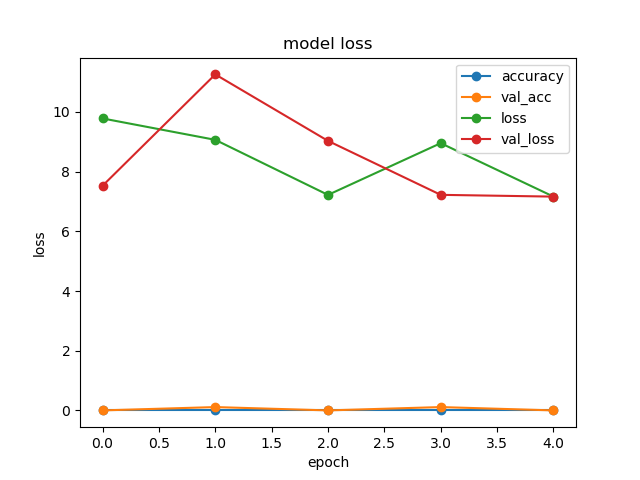
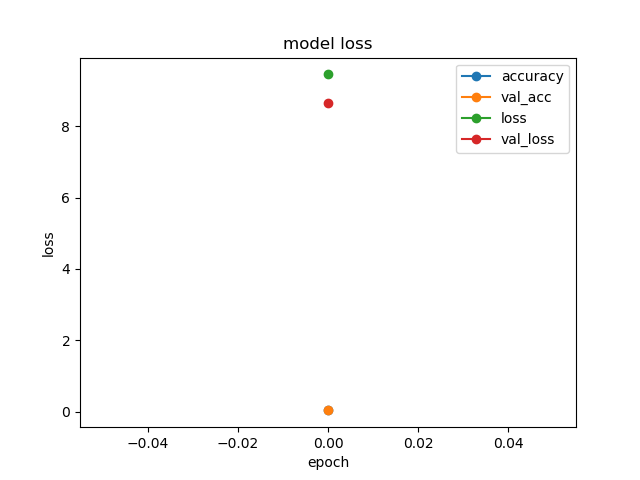
improved params of conv layer

diff --git a/lrcnModel.py b/lrcnModel.py
@@ -38,12 +38,15 @@ IMG_HEIGHT = 100
 IMG_WIDTH = 150
 NUM_FRAMES = 30
 NUM_CLASSES = 27
-NUM_TRAIN_SAMPLES = 10240 #116254
+NUM_TRAIN_SAMPLES = 32#10240 #116254
 NUM_VALIDATION_SAMPLES = 640
 
 # model params
-epochs = 5
+epochs = 1#5
 batchsize = 32
+padding_mode = 'same' # valid = no padding, same = padding such that output = input
+num_filters = 32 # depth
+kernel_size = 3 # spatial extend (width and height of output)
 
 def data_generator(featurePath, labelPath, batchsize, labelEncoder):
     metaData = pd.read_csv(labelPath, delimiter=';', header=None, index_col=0, names=['gesture'])
@@ -74,7 +77,7 @@ def data_generator(featurePath, labelPath, batchsize, labelEncoder):
 
 def build_model():
     model = Sequential()
-    model.add(TimeDistributed(Conv2D(32, (3, 3), padding='same'), input_shape=(NUM_FRAMES, IMG_HEIGHT, IMG_WIDTH, 3), name='Conv')) # shape = (frames, width, heigth, channel)
+    model.add(TimeDistributed(Conv2D(num_filters, kernel_size, padding=padding_mode, data_format="channels_last"), input_shape=(NUM_FRAMES, IMG_HEIGHT, IMG_WIDTH, 3), name='Conv')) # shape = (frames, width, height, channel)
     model.add(TimeDistributed(MaxPooling2D(pool_size=(2, 2), name='MaxPooling')))
     model.add(TimeDistributed(Flatten(), name='Flatten_1'))
     model.add(LSTM(20, return_sequences=True, name='LSTM'))
